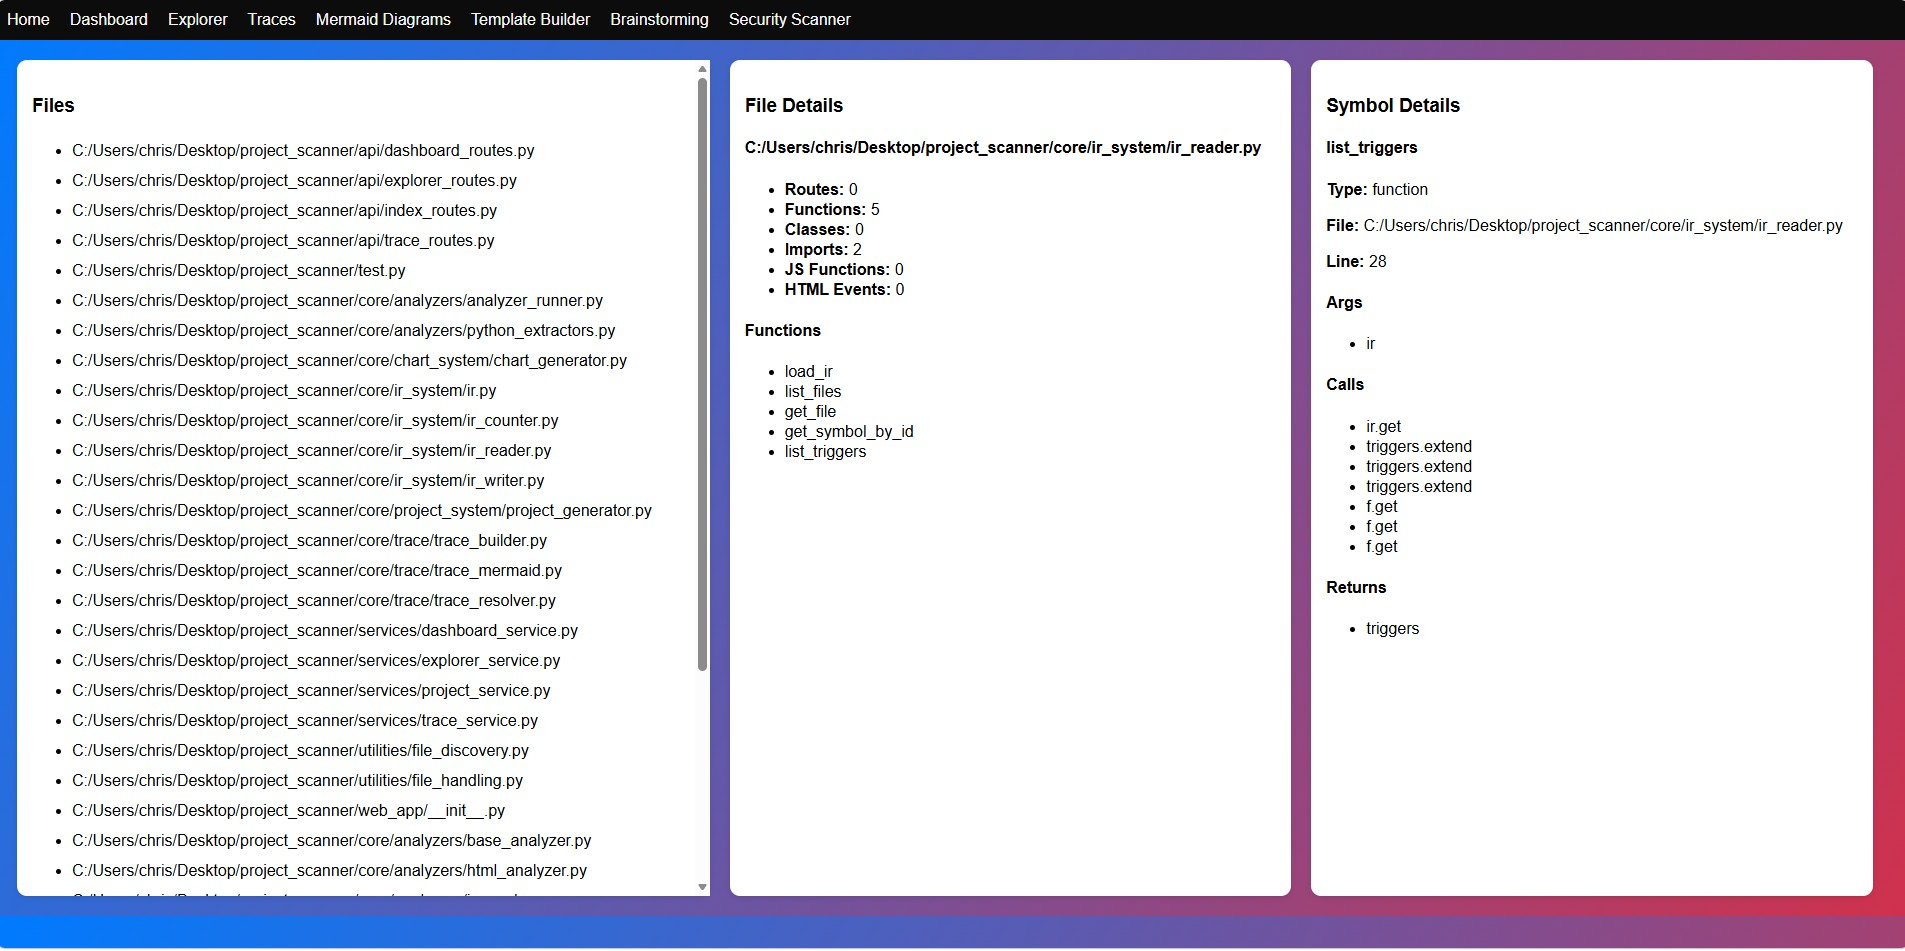
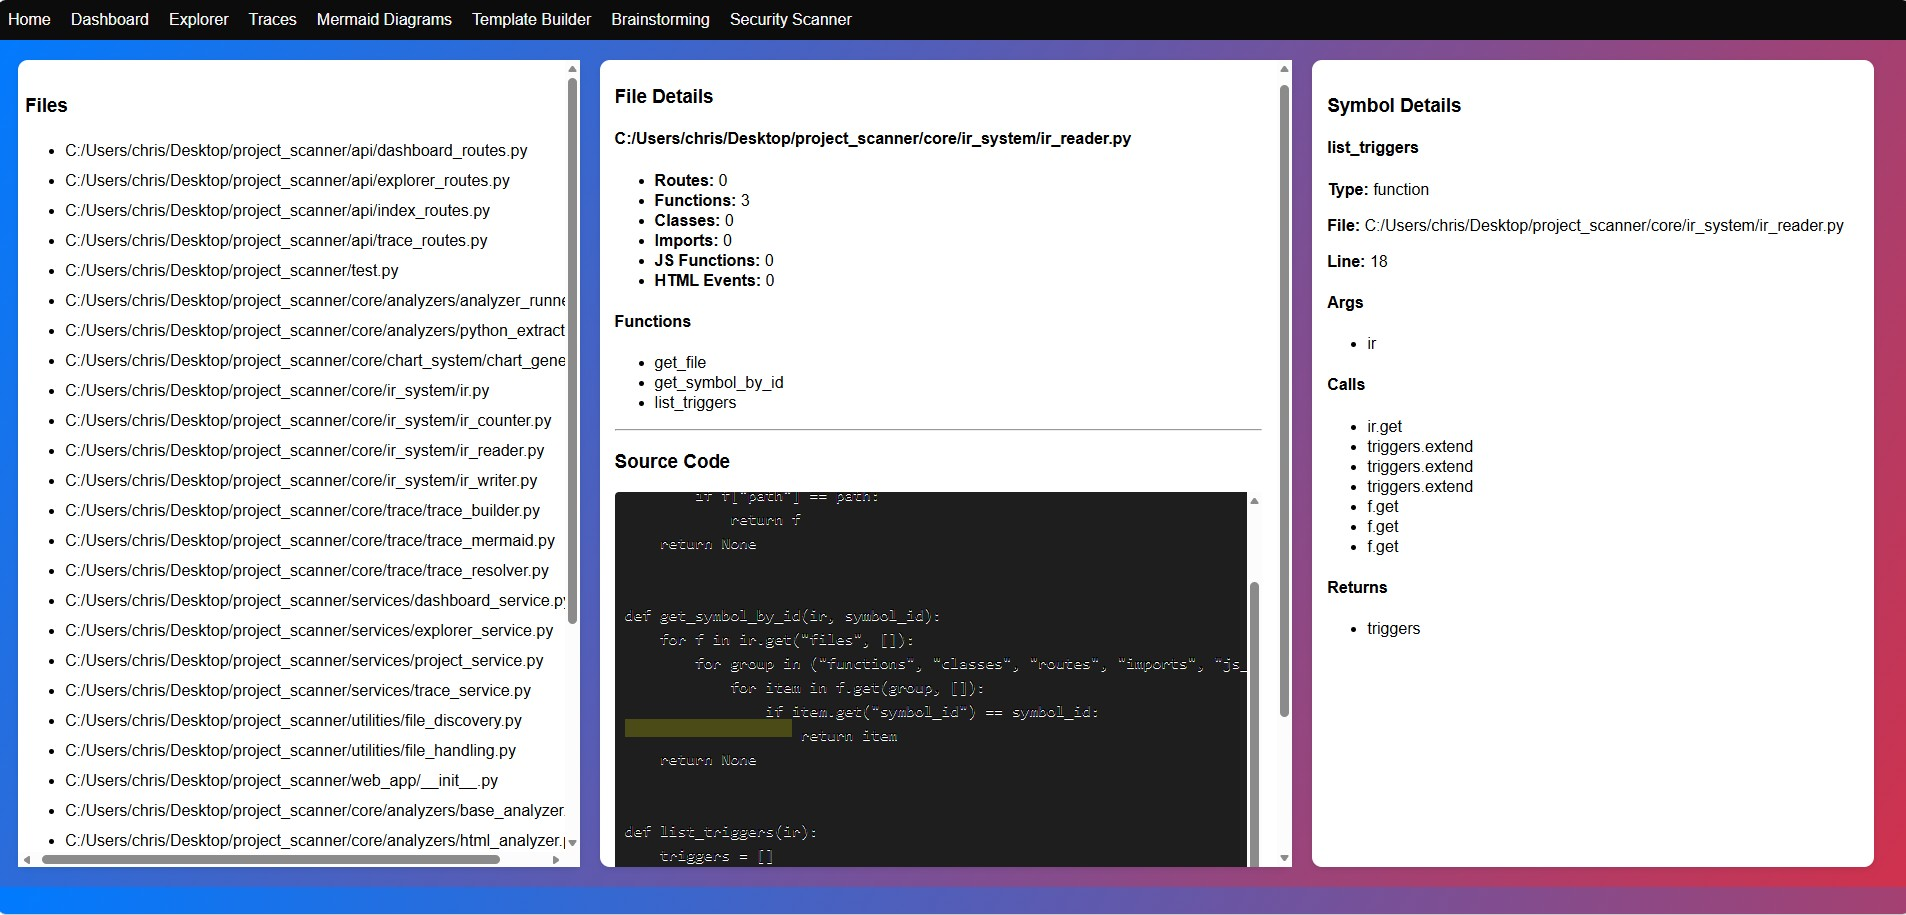
added source code view to file explorer page with shit highlighting. needs work.

Changed region(s): [[0.0, 0.0, 1.0, 1.0]]

diff --git a/web_app/static/js_files/explorer.js b/web_app/static/js_files/explorer.js
@@ -2,7 +2,6 @@ document.addEventListener("DOMContentLoaded", () => {
     loadFileList();
 });
 
-
 // ---------------------------------------------------------
 // Load all files from IR
 // ---------------------------------------------------------
@@ -17,9 +16,8 @@ function loadFileList() {
         });
 }
 
-
 // ---------------------------------------------------------
-// Load file details (symbols inside file)
+// Load file details + source code
 // ---------------------------------------------------------
 function loadFileDetails(path) {
     fetch(`/explorer/${PROJECT_NAME}/file/${encodeURIComponent(path)}`)
@@ -44,9 +42,10 @@ function loadFileDetails(path) {
                 ${renderSymbolList("JS Functions", file.js_functions)}
                 ${renderSymbolList("HTML Events", file.html_events)}
             `;
+
+            loadSourceCode(path);
         });
 }
-
 
 // ---------------------------------------------------------
 // Render symbol list with clickable items
@@ -58,17 +57,16 @@ function renderSymbolList(title, items) {
         <h4>${title}</h4>
         <ul>
             ${items
-                .map(i => `<li onclick="loadSymbolDetails('${i.symbol_id}')">${i.name}</li>`)
+                .map(i => `<li onclick="loadSymbolDetails('${i.symbol_id}', ${i.line})">${i.name}</li>`)
                 .join("")}
         </ul>
     `;
 }
 
-
 // ---------------------------------------------------------
-// Load symbol details (args, calls, returns, relationships)
+// Load symbol details + scroll to line + highlight
 // ---------------------------------------------------------
-function loadSymbolDetails(symbol_id) {
+function loadSymbolDetails(symbol_id, line) {
     fetch(`/explorer/${PROJECT_NAME}/symbol/${encodeURIComponent(symbol_id)}`)
         .then(r => r.json())
         .then(sym => {
@@ -84,9 +82,57 @@ function loadSymbolDetails(symbol_id) {
                 ${renderList("Calls", sym.calls)}
                 ${renderList("Returns", sym.returns ? [sym.returns] : [])}
             `;
+
+            scrollToLine(sym.line);
         });
 }
 
+// ---------------------------------------------------------
+// Load source code + highlight
+// ---------------------------------------------------------
+function loadSourceCode(path) {
+    fetch(`/explorer/${PROJECT_NAME}/source/${encodeURIComponent(path)}`)
+        .then(r => r.json())
+        .then(data => {
+            const codeBlock = document.querySelector("#code-viewer code");
+
+            const safe = data.source
+                .replace(/</g, "&lt;")
+                .replace(/>/g, "&gt;");
+
+            codeBlock.innerHTML = safe;
+
+            Prism.highlightAll();
+        });
+}
+
+// ---------------------------------------------------------
+// Scroll to a specific line in the code viewer
+// ---------------------------------------------------------
+function scrollToLine(line) {
+    const viewer = document.getElementById("code-viewer");
+    const codeLines = viewer.innerText.split("\n");
+
+    if (line < 1 || line > codeLines.length) return;
+
+    const approxHeight = 18; // px per line
+    viewer.scrollTop = (line - 1) * approxHeight;
+
+    highlightLine(line);
+}
+
+// ---------------------------------------------------------
+// Highlight a specific line
+// ---------------------------------------------------------
+function highlightLine(line) {
+    const viewer = document.getElementById("code-viewer");
+
+    viewer.classList.remove("highlight-line");
+    void viewer.offsetWidth;
+
+    viewer.style.setProperty("--highlight-line", line);
+    viewer.classList.add("highlight-line");
+}
 
 // ---------------------------------------------------------
 // Helper: render list sections

diff --git a/web_app/templates/layout.html b/web_app/templates/layout.html
@@ -14,17 +14,14 @@
     <ul class="nav">
         <li><a href="/">Home</a></li>
 
-        <!-- Always available -->
         <li><a href="/dashboard/{{ project.project_name }}">Dashboard</a></li>
 
-        <!-- Only show these if a project is loaded -->
         {% if project %}
             <li><a href="/explorer/{{ project.project_name }}">Explorer</a></li>
             <li><a href="/trace/{{ project.project_name }}">Traces</a></li>
             <li><a href="/mermaid/{{ project.project_name }}">Mermaid Diagrams</a></li>
         {% endif %}
 
-        <!-- Always available (future tools) -->
         <li><a href="/template-builder">Template Builder</a></li>
         <li><a href="/brainstorm">Brainstorming</a></li>
         <li><a href="/security">Security Scanner</a></li>
@@ -32,12 +29,10 @@
     {% endblock %}
 </nav>
 
-
 {% block body %}{% endblock %}
 
 <script src="{{ url_for('static', filename='js_files/javascript.js') }}"></script>
-<script src="{{ url_for('static', filename='js_files/dashboard.js') }}"></script>
-<script src="{{ url_for('static', filename='js_files/explorer.js') }}"></script>
+<!-- dashboard.js is intentionally NOT global anymore -->
 
 </body>
 </html>

diff --git a/web_app/templates/explorer.html b/web_app/templates/explorer.html
@@ -7,7 +7,11 @@
     const PROJECT_NAME = "{{ project.project_name }}";
 </script>
 
-<script src="/static/js/explorer.js" defer></script>
+<script src="{{ url_for('static', filename='js_files/explorer.js') }}" defer></script>
+
+<!-- Prism for syntax highlighting -->
+<link rel="stylesheet" href="https://cdnjs.cloudflare.com/ajax/libs/prism/1.29.0/themes/prism.min.css">
+<script src="https://cdnjs.cloudflare.com/ajax/libs/prism/1.29.0/prism.min.js"></script>
 
 <div class="explorer-container">
 
@@ -17,10 +21,15 @@
         <ul id="file-list"></ul>
     </div>
 
-    <!-- MIDDLE: File Details -->
+    <!-- MIDDLE: File Details + Code Viewer -->
     <div class="explorer-panel" id="file-details-panel">
         <h3>File Details</h3>
         <div id="file-details"></div>
+
+        <hr>
+
+        <h3>Source Code</h3>
+        <pre id="code-viewer" class="code-block"><code class="language-python"></code></pre>
     </div>
 
     <!-- RIGHT: Symbol Details -->

diff --git a/web_app/static/styles.css b/web_app/static/styles.css
@@ -137,7 +137,7 @@ body {
 
 .explorer-container {
     display: grid;
-    grid-template-columns: 37% 30% 30%;
+    grid-template-columns: 30% 37% 30%;
     gap: 20px;
     padding: 20px;
 }
@@ -201,4 +201,28 @@ body {
     background: white;
     padding: 10px;
     border-radius: 6px;
+}
+
+
+#code-viewer {
+    max-height: 500px;
+    overflow-y: scroll;
+    background: #1e1e1e;
+    padding: 10px;
+    border-radius: 4px;
+}
+
+.highlight-line code {
+    position: relative;
+}
+
+.highlight-line code::after {
+    content: "";
+    position: absolute;
+    left: 0;
+    right: 0;
+    height: 18px;
+    top: calc((var(--highlight-line) - 1) * 18px);
+    background: rgba(255, 255, 0, 0.2);
+    pointer-events: none;
 }

diff --git a/web_app/static/js_files/trace.js b/web_app/static/js_files/trace.js
@@ -66,7 +66,7 @@ function renderTraceTree(tree) {
 function renderMermaid(data) {
     const el = document.getElementById("mermaid-diagram");
     const code = data.mermaid || "";
-
+    console.log(code)
     el.innerHTML = `<div class="mermaid">${code}</div>`;
     mermaid.init(undefined, el.querySelectorAll(".mermaid"));
 }

diff --git a/web_app/templates/dashboard.html b/web_app/templates/dashboard.html
@@ -8,7 +8,8 @@
 </script>
 
 <link rel="stylesheet" href="/static/css/dashboard.css">
-<script src="/static/js/dashboard.js" defer></script>
+<script src="{{ url_for('static', filename='js_files/dashboard.js') }}" defer></script>
+
 
 <div class="dashboard-container">
 

diff --git a/api/explorer_routes.py b/api/explorer_routes.py
@@ -4,7 +4,8 @@ from flask import Blueprint, jsonify, render_template
 from services.explorer_service import (
     list_project_files,
     get_file_details,
-    get_symbol_details
+    get_symbol_details,
+    get_file_source
 )
 
 explorer_bp = Blueprint("explorer", __name__)
@@ -48,3 +49,9 @@ def explorer_symbol_details(project_name, symbol_id):
     if details is None:
         return jsonify({"error": "Symbol not found"}), 404
     return jsonify(details)
+
+
+@explorer_bp.route("/explorer/<project_name>/source/<path:filepath>")
+def explorer_file_source(project_name, filepath):
+    full = get_file_source(project_name, filepath)
+    return jsonify({"source": full})

diff --git a/services/explorer_service.py b/services/explorer_service.py
@@ -27,3 +27,8 @@ def get_file_details(project_name, path):
 def get_symbol_details(project_name, symbol_id):
     ir = load_ir(project_name).get("ir", {})
     return get_symbol_by_id(ir, symbol_id)
+
+
+def get_file_source(project_name, path):
+    with open(path, "r", encoding="utf-8") as f:
+        return f.read()
